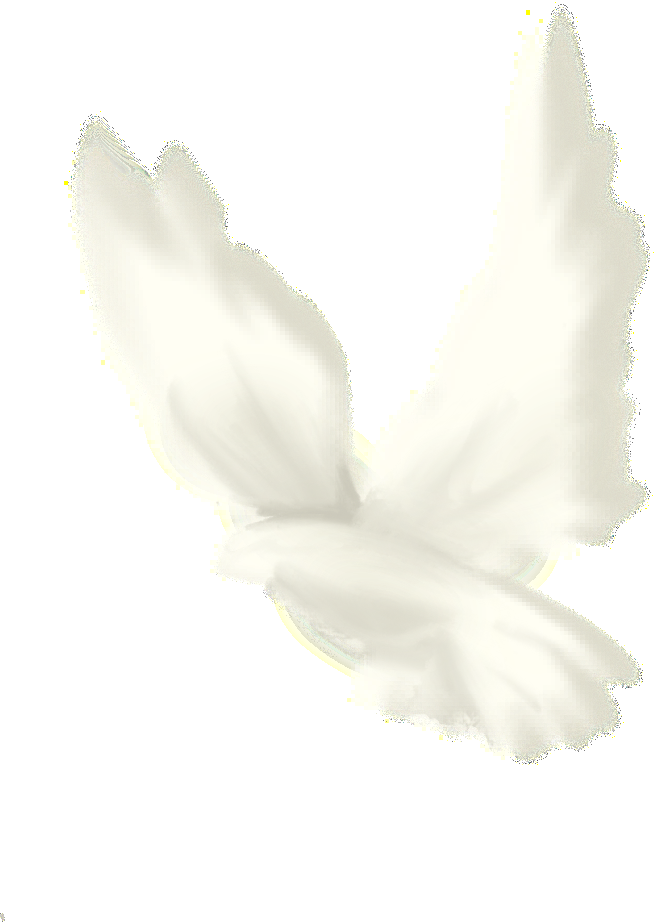
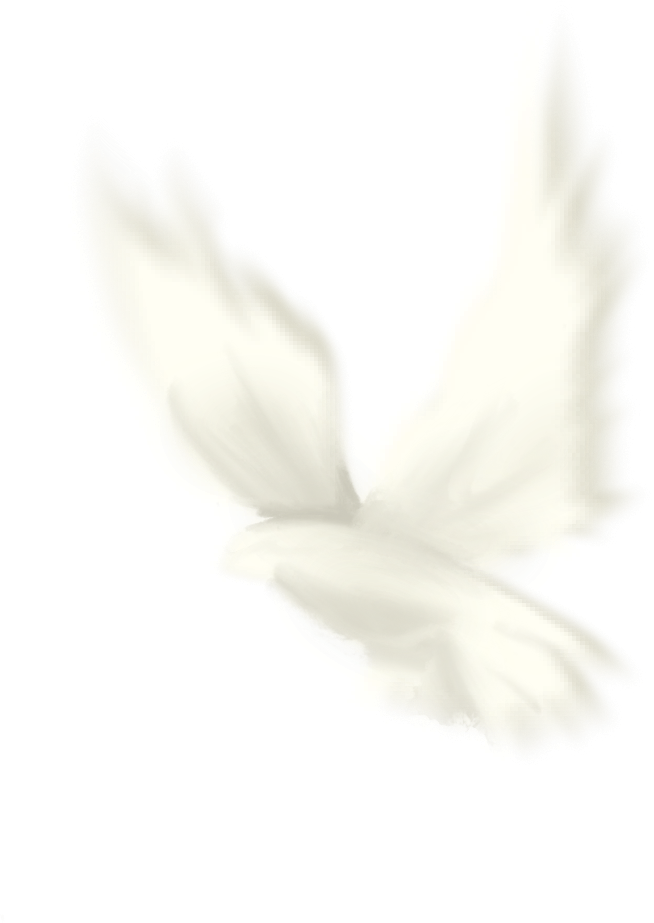
7
7

diff --git a/live.html b/live.html
@@ -60,7 +60,7 @@
 
   <div class="content">
     <h1 class="page-title">Live</h1>
-    <img class="photo" src="dove-hands-photo.jpg" alt="" onerror="this.style.display='none';" />
+    <img class="photo" src="dove-reaching.jpg" alt="" onerror="this.style.display='none';" />
     <p class="sub">Dates to be announced</p>
   </div>
 